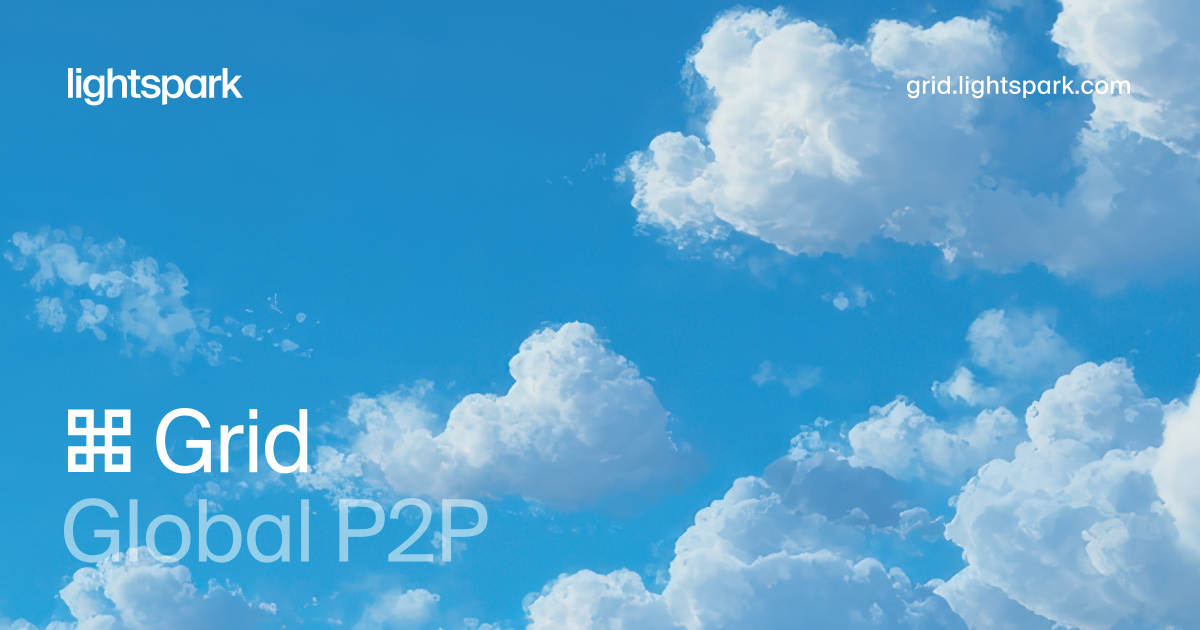
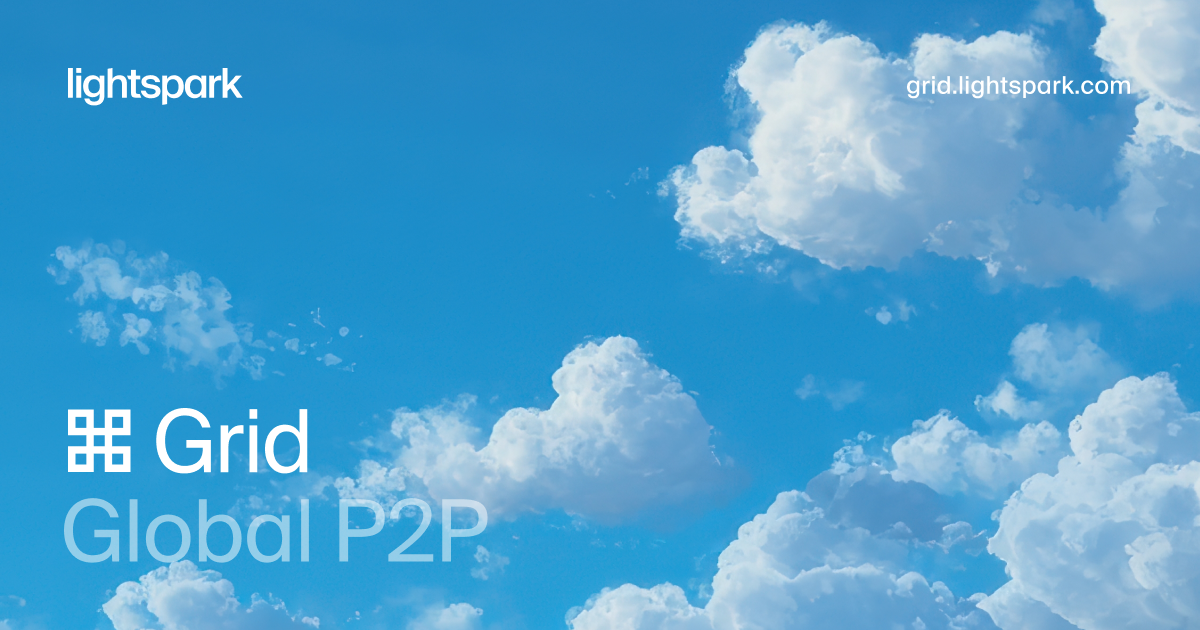
fix: staging feedback round 2 - API reference, mobile, homepage
OG Images:
- Updated ramps, global P2P, and API reference OG images

Navbar & AI components:
- Remove box-shadow, ring, and outline on search bar and Ask AI button
- Scope Ask AI styles to #assistant-entry only (fix code block buttons)
- Hide copy/AI tooltips in code blocks
- Fix --primary CSS variable for Tailwind (raw RGB values)
- Make assistant bar placeholder transparent on mobile
- Extend chat input 8px past content edges on mobile
- Glassy blur effect on floating chat input

Mobile:
- Add (0, 0, 0) origin to homepage mobile breadcrumb bar
- Add 24px padding to mobile breadcrumb bar

Sidebar:
- Darken chevrons in dark mode (--ls-gray-600)

API Reference:
- Fix code block tab pill border-radius (--ls-radius-sm token)
- Style code-group-select variant to match code-group
- Unscope code group styles for modal/inline contexts
- Fix dark mode border on object-param-field containers
- Style Try It input fields with focus animation
- Fix dark mode border-gray-100 override
- Hide accordion icon wrapper div

Homepage:
- ProductTiles: click navigates on desktop, tap-to-select on mobile
- "Learn more" link hidden on desktop, shown on mobile only
- Preview image links to category page (no lightbox)
- Subtle zoom-out hover effect on preview images

diff --git a/mintlify/styles/base.css b/mintlify/styles/base.css
@@ -11,14 +11,14 @@
    =========================================== */
 
 :root {
-  --primary: var(--ls-gray-900) !important;
+  --primary: 40 40 40 !important; /* --ls-gray-900 (#282828) as raw RGB for Tailwind */
   --text-primary: var(--ls-gray-900) !important;
   --color-primary: var(--ls-gray-900) !important;
   --tw-text-opacity: 1;
 }
 
 html.dark {
-  --primary: var(--ls-gray-100) !important;
+  --primary: 240 240 238 !important; /* --ls-gray-100 (#F0F0EE) as raw RGB for Tailwind */
   --text-primary: var(--ls-gray-100) !important;
   --color-primary: var(--ls-gray-100) !important;
 }
@@ -392,15 +392,30 @@ html.dark .navbar-link svg {
    Chat Assistant (Floating Input)
    =========================================== */
 
-/* Container wrapper - darker/lighter than page bg for contrast */
+/* Mobile assistant bar placeholder - make transparent so it doesn't cover content */
+#assistant-bar-placeholder {
+  background: transparent !important;
+}
+
+/* Mobile: extend chat input 8px past content edges */
+@media (max-width: 639px) {
+  .chat-assistant-floating-input {
+    margin-left: -8px !important;
+    width: calc(100% + 16px) !important;
+  }
+}
+
+/* Container wrapper - glassy blur effect */
 .chat-assistant-floating-input > div > div {
-  background: var(--ls-gray-025) !important;
+  background: var(--ls-white-70) !important;
+  backdrop-filter: blur(16px) !important;
+  -webkit-backdrop-filter: blur(16px) !important;
   border: 0.5px solid var(--ls-black-10) !important;
   border-radius: var(--ls-radius-lg) !important;
 }
 
 html.dark .chat-assistant-floating-input > div > div {
-  background: var(--ls-gray-975) !important;
+  background: var(--ls-black-40) !important;
   border-color: var(--ls-white-10) !important;
 }
 
@@ -1261,6 +1276,10 @@ html.dark div[class*="lg:flex-1"][class*="overflow-x-clip"] {
   border-color: var(--ls-black-10) !important;
 }
 
+html.dark #api-playground-2-operation-page [class*="border-gray-100"] {
+  border-color: var(--ls-white-06) !important;
+}
+
 html.dark #api-playground-2-operation-page [class*="border-gray-800"] {
   border-color: var(--ls-white-06) !important;
 }
@@ -1408,41 +1427,41 @@ div.callout,
    =========================================== */
 
 /* Code group container - 8px border radius, no padding, black-10 border */
-#content-side-layout .code-group,
-#content-side-layout [data-testid="code-group-select"] {
+.code-group,
+[data-testid="code-group-select"] {
   border-radius: var(--ls-radius-md) !important;
   padding: 0 !important;
   border: 0.5px solid var(--ls-black-10) !important;
 }
 
-html.dark #content-side-layout .code-group,
-html.dark #content-side-layout [data-testid="code-group-select"] {
+html.dark .code-group,
+html.dark [data-testid="code-group-select"] {
   border-color: var(--ls-white-06) !important;
 }
 
 /* Code group inner container - no border radius (exclude interactive tabs/buttons) */
-#content-side-layout .code-group > div,
-#content-side-layout [data-testid="code-group-select"] > div {
+.code-group > div,
+[data-testid="code-group-select"] > div {
   border-radius: 0 !important;
 }
 
 /* Code block content area - strip rounded corners */
-#content-side-layout .code-group [data-component-part="code-block-root"],
-#content-side-layout [data-testid="code-group-select"] [data-component-part="code-block-root"] {
+.code-group [data-component-part="code-block-root"],
+[data-testid="code-group-select"] [data-component-part="code-block-root"] {
   border-radius: 0 !important;
 }
 
 /* Restore radius on interactive tabs and pills inside code groups */
-#content-side-layout .code-group [data-component-part="code-group-tab-bar"] button div[class*="rounded"],
-#content-side-layout .code-group [data-component-part="code-group-tab-bar"] > div > button > div,
-#content-side-layout .code-group button div[class*="rounded"],
-#content-side-layout [data-testid="code-group-select"] button div[class*="rounded"] {
+.code-group [data-component-part="code-group-tab-bar"] button div[class*="rounded"],
+.code-group [data-component-part="code-group-tab-bar"] > div > button > div,
+.code-group button div[class*="rounded"],
+[data-testid="code-group-select"] button div[class*="rounded"] {
   border-radius: var(--ls-radius-sm) !important;
 }
 
 /* Code group tab bar header */
-#content-side-layout .code-group [data-component-part="code-group-tab-bar"],
-#content-side-layout [data-testid="code-group-select"] > div:first-child {
+.code-group [data-component-part="code-group-tab-bar"],
+[data-testid="code-group-select"] > div:first-child {
   height: fit-content !important;
   background-color: var(--ls-gray-025) !important;
   border-bottom: 0.5px solid var(--ls-black-10) !important;
@@ -1450,39 +1469,66 @@ html.dark #content-side-layout [data-testid="code-group-select"] {
   padding-bottom: 4px !important;
 }
 
-
 /* Code group tab bar text - book weight */
-#content-side-layout .code-group [data-component-part="code-group-tab-bar"],
-#content-side-layout [data-testid="code-group-select"] > div:first-child {
+.code-group [data-component-part="code-group-tab-bar"],
+[data-testid="code-group-select"] > div:first-child {
   font-weight: 450 !important;
 }
 
-#content-side-layout .code-group [data-component-part="code-group-tab-bar"] span,
-#content-side-layout .code-group [data-component-part="code-group-tab-bar"] button,
-#content-side-layout .code-group [data-component-part="code-group-tab-bar"] div,
-#content-side-layout [data-testid="code-group-select"] > div:first-child span,
-#content-side-layout [data-testid="code-group-select"] > div:first-child button,
-#content-side-layout [data-testid="code-group-select"] > div:first-child div {
+.code-group [data-component-part="code-group-tab-bar"] span,
+.code-group [data-component-part="code-group-tab-bar"] button,
+.code-group [data-component-part="code-group-tab-bar"] div,
+[data-testid="code-group-select"] > div:first-child span,
+[data-testid="code-group-select"] > div:first-child button,
+[data-testid="code-group-select"] > div:first-child div {
   font-weight: 450 !important;
 }
 
 /* Code group tab bar title - 2px left padding */
-#content-side-layout .code-group [data-component-part="code-group-tab-bar"] span.truncate {
+.code-group [data-component-part="code-group-tab-bar"] span.truncate {
   padding-left: 4px !important;
 }
 
-html.dark #content-side-layout .code-group [data-component-part="code-group-tab-bar"],
-html.dark #content-side-layout [data-testid="code-group-select"] > div:first-child {
+html.dark .code-group [data-component-part="code-group-tab-bar"],
+html.dark [data-testid="code-group-select"] > div:first-child {
   background-color: var(--ls-gray-975) !important;
   border-bottom-color: var(--ls-white-06) !important;
 }
 
 /* Code block content area - darker in dark mode */
-html.dark #content-side-layout .code-group [data-component-part="code-block-root"],
-html.dark #content-side-layout .code-block-background,
-html.dark #content-side-layout [class*="bg-codeblock"],
+html.dark .code-group [data-component-part="code-block-root"],
+html.dark .code-block-background,
 html.dark .code-group [class*="dark:bg-codeblock"] {
   background-color: var(--ls-gray-975) !important;
+}
+
+/* API Reference - Try It input fields */
+#api-playground-input,
+select[class*="text-playground-input"] {
+  background-color: var(--ls-gray-025) !important;
+  border-radius: var(--ls-radius-sm) !important;
+  padding: 6px 8px !important;
+  outline: none !important;
+  box-shadow: 0 0 0 0px var(--ls-gray-200) !important;
+  transition: box-shadow 0.15s ease !important;
+}
+
+#api-playground-input:focus,
+select[class*="text-playground-input"]:focus {
+  box-shadow: 0 0 0 2px var(--ls-gray-200) !important;
+  background-color: var(--ls-white) !important;
+}
+
+html.dark #api-playground-input,
+html.dark select[class*="text-playground-input"] {
+  background-color: var(--ls-gray-975) !important;
+  box-shadow: 0 0 0 0px var(--ls-gray-800) !important;
+}
+
+html.dark #api-playground-input:focus,
+html.dark select[class*="text-playground-input"]:focus {
+  box-shadow: 0 0 0 2px var(--ls-gray-800) !important;
+  background-color: var(--ls-black) !important;
 }
 
 /* ===========================================
@@ -2348,8 +2394,9 @@ html.dark .accordion-group details > summary:hover {
   background-color: var(--ls-white-06) !important;
 }
 
-/* Hide Mintlify's chevron SVG */
-.accordion-group details > summary svg {
+/* Hide Mintlify's chevron SVG and icon wrapper */
+.accordion-group details > summary svg,
+.accordion-group details > summary div[data-component-part="accordion-icon"] {
   display: none !important;
 }
 
@@ -2485,10 +2532,13 @@ html.dark .prose:not(.accordion-group) > details.accordion > summary:hover {
   background-color: var(--ls-white-06) !important;
 }
 
-/* Hide Mintlify's chevron SVG */
+/* Hide Mintlify's chevron SVG and icon wrapper */
 #content > details.accordion > summary svg,
 #content-area > details.accordion > summary svg,
-.prose:not(.accordion-group) > details.accordion > summary svg {
+.prose:not(.accordion-group) > details.accordion > summary svg,
+#content > details.accordion > summary div[data-component-part="accordion-icon"],
+#content-area > details.accordion > summary div[data-component-part="accordion-icon"],
+.prose:not(.accordion-group) > details.accordion > summary div[data-component-part="accordion-icon"] {
   display: none !important;
 }
 
@@ -2555,9 +2605,10 @@ html.dark .prose:not(.accordion-group) > details.accordion [data-component-part=
 }
 
 @media (max-width: 640px) {
-  .page-hero {
-    aspect-ratio: 1 / 1;
-    object-fit: cover;
-    object-position: center;
+  img.page-hero,
+  picture img.page-hero {
+    aspect-ratio: 1 / 1 !important;
+    object-fit: cover !important;
+    object-position: center !important;
   }
 }

diff --git a/mintlify/styles/homepage.css b/mintlify/styles/homepage.css
@@ -831,25 +831,31 @@ html.dark .product-tiles-item-title {
   transform: translateX(0);
 }
 
-/* Product tiles "Learn more" link */
+/* Product tiles "Learn more" link - hidden on desktop, shown on mobile */
 .product-tiles-link {
   font-size: 14px;
   font-weight: 450;
   line-height: 20px;
   color: var(--ls-gray-500);
   text-decoration: none;
-  opacity: 0;
-  max-height: 0;
-  overflow: hidden;
-  transition: opacity 0.2s ease, max-height 0.2s ease, margin-top 0.2s ease, color 0.2s ease;
-  display: block;
-  margin-top: 0;
+  display: none;
 }
 
-.product-tiles-item.active .product-tiles-link {
-  opacity: 1;
-  max-height: 24px;
-  margin-top: 8px;
+@media (max-width: 1024px) {
+  .product-tiles-link {
+    display: block;
+    opacity: 0;
+    max-height: 0;
+    overflow: hidden;
+    margin-top: 0;
+    transition: opacity 0.2s ease, max-height 0.2s ease, margin-top 0.2s ease, color 0.2s ease;
+  }
+
+  .product-tiles-item.active .product-tiles-link {
+    opacity: 1;
+    max-height: 24px;
+    margin-top: 8px;
+  }
 }
 
 .product-tiles-link:hover {
@@ -868,6 +874,7 @@ html.dark .product-tiles-link:hover {
   min-height: 300px;
   align-self: stretch;
   position: relative;
+  cursor: pointer;
 }
 
 html.dark .product-tiles-preview {
@@ -882,11 +889,17 @@ html.dark .product-tiles-preview {
   height: 100%;
   object-fit: cover;
   opacity: 0;
-  transition: opacity 0.25s ease-in-out;
+  transform: scale(1.03);
+  transition: opacity 0.25s ease-in-out, transform 0.4s ease;
+  pointer-events: none;
 }
 
 .product-tiles-preview-img.active {
   opacity: 1;
+}
+
+.product-tiles-preview:hover .product-tiles-preview-img {
+  transform: scale(1);
 }
 
 .product-tiles-preview-placeholder {
